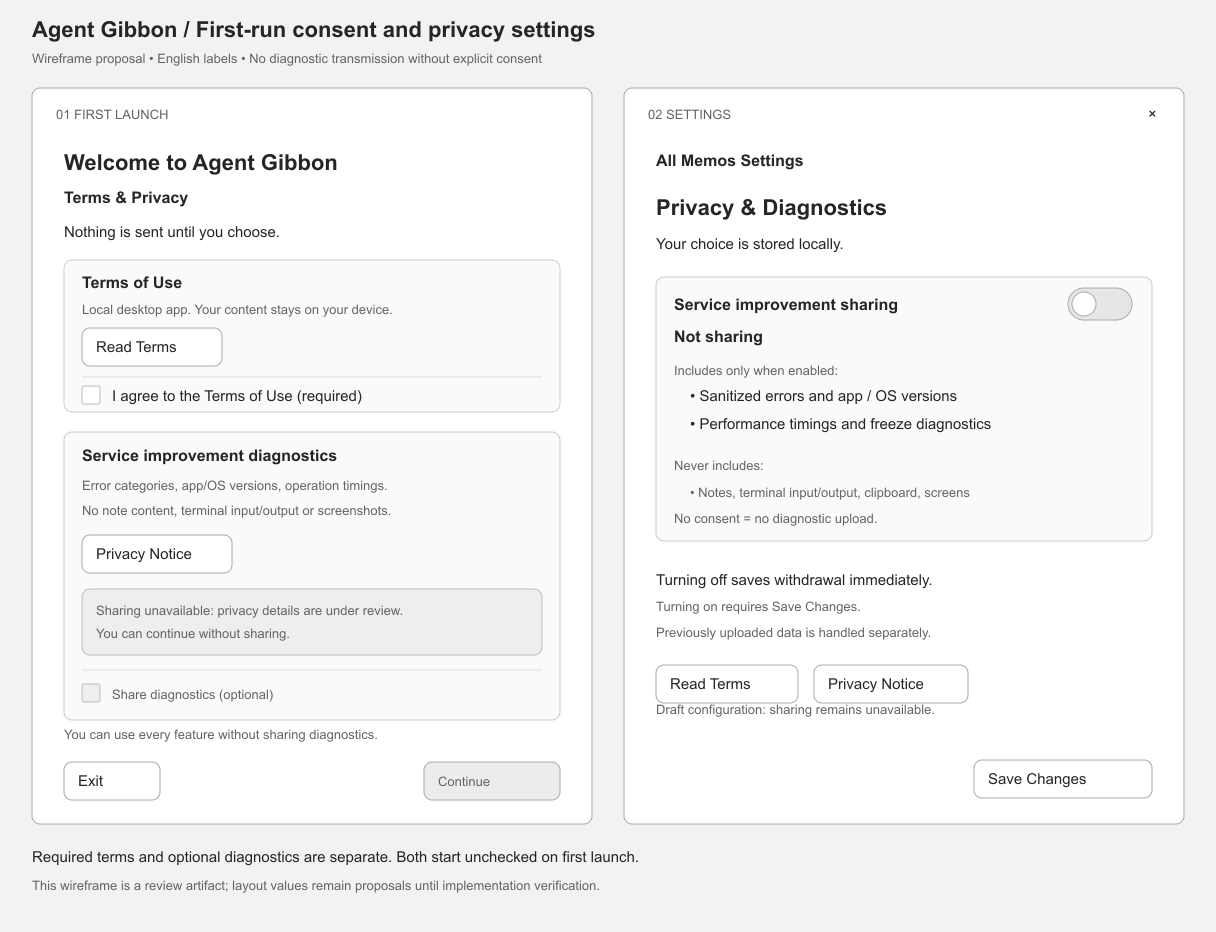
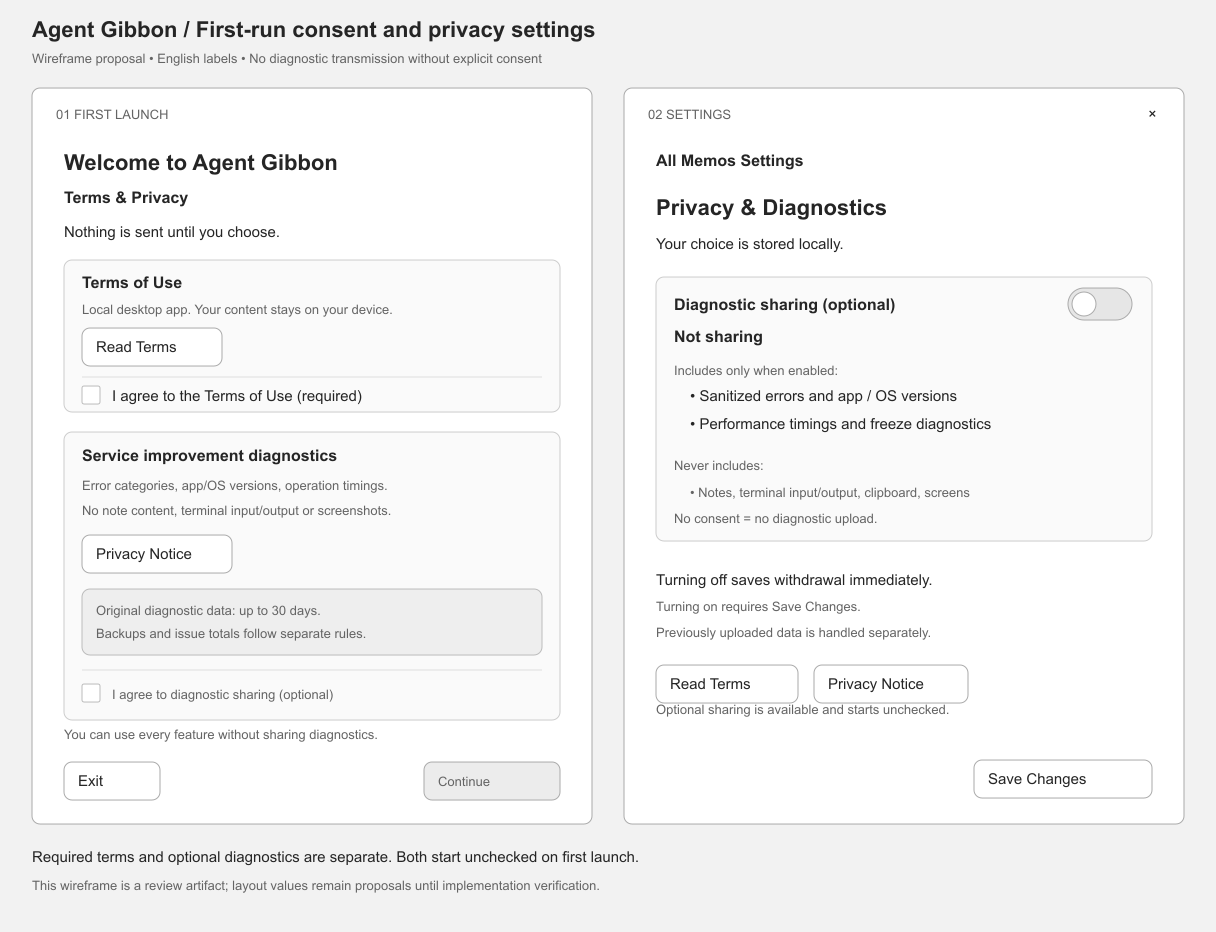
선택적 진단 동의를 활성화하고 세션 수집을 차단
원본 30일·백업·누적 통계 보유와 국외 이전 안내를 반영해 첫 실행 및 설정에서 동의를 선택하도록 한다. Release Health는 보유기간 확인 전 SDK와 envelope 경계에서 차단한다. Rust 123개·UI 81개·Rustfmt·Clippy 검사를 통과했고 실제 동의 저장·철회·재실행 검증 기록을 연결했다. 별도 설정 시안·헤더 정렬과 기존 변경은 포함하지 않는다.

diff --git a/ui/manager.html b/ui/manager.html
@@ -4,7 +4,7 @@
 <div id="error" role="alert" hidden>메모를 읽지 못했습니다. <button id="retry">다시 시도</button></div>
 <main id="notes-page" hidden><aside aria-label="메모 목록"><div class="list-heading"><h2>모든 메모</h2><button id="refresh" aria-label="메모 목록 새로고침">새로고침</button></div><div id="list"></div></aside><section id="detail" aria-label="메모 상세" tabindex="0"><p>메모를 선택하세요.</p></section></main>
 <section id="settings-page" hidden><h1>Settings</h1><div class="privacy-card privacy-settings"><h2>Privacy &amp; Diagnostics</h2><p>Your choice is stored locally.</p>
-<div class="privacy-box"><label class="privacy-choice"><input id="privacy-setting-share" type="checkbox" disabled> Service improvement sharing</label><p id="privacy-sharing-status" role="status">Not sharing</p><p>Sanitized errors, app/OS versions, operation timings and freeze diagnostics.</p><p>No notes, terminal input/output, clipboard or screenshots.</p></div>
+<div class="privacy-box"><label class="privacy-choice"><input id="privacy-setting-share" type="checkbox" disabled> I agree to diagnostic sharing (optional)</label><p id="privacy-sharing-status" role="status">Not sharing</p><p>Sanitized errors, app/OS versions, operation timings and freeze diagnostics.</p><p>No notes, terminal input/output, clipboard or screenshots.</p><p>Sent to Sentry in Iowa, United States. Originals: up to 30 days. Read the notice for backup and aggregate retention and overseas transfer details.</p></div>
 <p>Turning this off saves withdrawal immediately. Turning it on requires Save Changes. A request already started before withdrawal may finish. Previously uploaded information is handled separately.</p>
 <p id="privacy-settings-draft" class="privacy-notice">Sharing is unavailable until all privacy details are published. Read the Privacy Notice for the current operator, storage region and retention information.</p>
 <div class="privacy-links"><button id="privacy-settings-terms" type="button">Read Terms</button><button id="privacy-settings-notice" type="button">Privacy Notice</button></div>
@@ -22,9 +22,10 @@
       <h3 id="privacy-diagnostics-title">Service improvement diagnostics</h3>
       <p>Includes sanitized errors, app/OS versions, operation timings and freeze diagnostics.</p>
       <p>Excludes notes, terminal input/output, clipboard and screenshots.</p>
+      <p>Sent to Sentry in Iowa, United States. Originals: up to 30 days. Read the notice for backup and aggregate retention and overseas transfer details.</p>
       <button id="privacy-read-notice" type="button">Privacy Notice</button>
       <p id="privacy-draft" class="privacy-notice">Sharing is unavailable until all privacy details are published. Read the Privacy Notice for the current details. You can continue without sharing.</p>
-      <label class="privacy-choice privacy-agreement"><input id="privacy-share" type="checkbox" aria-describedby="privacy-draft" disabled><span class="privacy-choice-label">Share diagnostics <span>(optional)</span></span></label>
+      <label class="privacy-choice privacy-agreement"><input id="privacy-share" type="checkbox" aria-describedby="privacy-draft" disabled><span class="privacy-choice-label">I agree to diagnostic sharing <span>(optional)</span></span></label>
     </div>
     <p>You can use every feature without sharing diagnostics.</p>
     <div class="privacy-actions"><button id="privacy-exit" type="button">Exit</button><button id="privacy-continue" type="button" disabled>Continue</button></div>

diff --git a/src-tauri/src/telemetry.rs b/src-tauri/src/telemetry.rs
@@ -1,4 +1,4 @@
-//! One allowlisted egress for errors, traces, logs and release health. Never accept content.
+//! One allowlisted egress for errors, traces and logs. Sessions stay disabled.
 mod journal;
 mod privacy;
 mod transport;
@@ -185,7 +185,8 @@ fn options(dsn: sentry::types::Dsn, detailed: bool) -> sentry::ClientOptions {
         attach_stacktrace: true,
         in_app_include: vec!["agent_gibbon"],
         enable_logs: detailed,
-        auto_session_tracking: detailed,
+        // Release Health stays off until its aggregate retention is confirmed.
+        auto_session_tracking: false,
         max_breadcrumbs: 40,
         traces_sampler: Some(Arc::new(move |ctx| {
             if !detailed {
@@ -420,7 +421,7 @@ pub fn telemetry_status() -> Value {
     status()
 }
 pub fn status() -> Value {
-    json!({"enabled":enabled(),"detailed":detailed(),"environment":if cfg!(debug_assertions){"development"}else{"production"},"traces_sample_rate":if detailed(){sample_rate()}else{0.0},"logs":detailed(),"release_health":detailed(),"revision":env!("AGENT_GIBBON_BUILD_REVISION"),"operations":OPERATIONS.load(Ordering::Relaxed),"heartbeats":HEARTBEATS.load(Ordering::Relaxed),"frontend_errors":ERRORS.load(Ordering::Relaxed),"diagnostic_limit":MAX_DIAGNOSTICS,"watchdog":watchdog::status(),"journal":journal::status()})
+    json!({"enabled":enabled(),"detailed":detailed(),"environment":if cfg!(debug_assertions){"development"}else{"production"},"traces_sample_rate":if detailed(){sample_rate()}else{0.0},"logs":detailed(),"release_health":false,"revision":env!("AGENT_GIBBON_BUILD_REVISION"),"operations":OPERATIONS.load(Ordering::Relaxed),"heartbeats":HEARTBEATS.load(Ordering::Relaxed),"frontend_errors":ERRORS.load(Ordering::Relaxed),"diagnostic_limit":MAX_DIAGNOSTICS,"watchdog":watchdog::status(),"journal":journal::status()})
 }
 #[tauri::command]
 pub fn telemetry_heartbeat(

diff --git a/src-tauri/src/telemetry/tests.rs b/src-tauri/src/telemetry/tests.rs
@@ -39,7 +39,7 @@ fn rejects_unknown_and_nonfinite_frontend_measurements() {
     .is_err());
 }
 #[test]
-fn whole_envelope_scrubs_error_trace_log_session_and_denies_attachments() {
+fn whole_envelope_scrubs_error_trace_log_and_denies_sessions_and_attachments() {
     let secret = "PRIVATE_NOTE_COMMAND_PATH_TOKEN";
     let mut e:p::Event=serde_json::from_value(json!({
         "message":secret,"user":{"username":secret},"request":{"url":"https://example.invalid/PRIVATE_NOTE_COMMAND_PATH_TOKEN"},
@@ -103,7 +103,8 @@ fn whole_envelope_scrubs_error_trace_log_session_and_denies_attachments() {
     assert!(payload.contains("storage.save"));
     assert!(payload.contains("application_function"));
     assert!(payload.contains("duration_ms"));
-    assert_eq!(out.items().count(), 4);
+    assert_eq!(out.items().count(), 3);
+    assert!(!payload.contains("00112233-4455-6677-8899-aabbccddeeff"));
 }
 #[test]
 fn foreign_breadcrumbs_and_logs_are_not_allowed() {
@@ -137,7 +138,8 @@ fn basic_release_and_opted_in_diagnostics_have_separate_features() {
         0.0
     );
     let detailed = options("https://public@example.invalid/42".parse().unwrap(), true);
-    assert!(detailed.enable_logs && detailed.auto_session_tracking);
+    assert!(detailed.enable_logs);
+    assert!(!detailed.auto_session_tracking);
     let sampler = detailed.traces_sampler.unwrap();
     assert_eq!(
         sampler(&sentry::TransactionContext::new(

diff --git a/src-tauri/src/telemetry/privacy.rs b/src-tauri/src/telemetry/privacy.rs
@@ -188,20 +188,13 @@ pub fn envelope(input: Envelope) -> Envelope {
                     out.add_item(t);
                 }
             }
-            p::EnvelopeItem::SessionUpdate(s) => {
-                let mut s = s.clone();
-                s.distinct_id = None;
-                s.attributes.ip_address = None;
-                s.attributes.user_agent = None;
-                out.add_item(s);
-            }
             p::EnvelopeItem::ItemContainer(p::ItemContainer::Logs(logs)) => {
                 let logs: Vec<_> = logs.iter().cloned().filter_map(log).collect();
                 if !logs.is_empty() {
                     out.add_item(logs);
                 }
             }
-            // Attachments, replay, native memory dumps and unknown future item types are denied.
+            // Sessions/aggregates, attachments, replay, dumps and unknown types are denied.
             _ => (),
         }
     }

diff --git a/src-tauri/src/privacy.rs b/src-tauri/src/privacy.rs
@@ -272,6 +272,12 @@ mod tests {
         assert_eq!(c.decided_at, 1);
     }
     #[test]
+    fn published_notice_enables_choice_without_granting_consent() {
+        assert!(notice_ready());
+        assert!(!Choice::default().current());
+        assert!(!Choice::default().sharing);
+    }
+    #[test]
     fn unfinished_notice_cannot_enable_sharing() {
         let d: Deployment = serde_json::from_str(r#"{"operator":null,"privacy_contact":null,"recipient":"Sentry","storage_region":null,"retention_days":null}"#).unwrap();
         assert!(!d.ready());

diff --git a/docs/legal/privacy.md b/docs/legal/privacy.md
@@ -1,54 +1,70 @@
-# Agent Gibbon 개인정보·서비스 개선 정보 안내 — 초안
+# Agent Gibbon 개인정보·서비스 개선 정보 안내
 
-버전: 2026-11-06.2
+버전: 2026-11-06.3
 
-## 운영 상태
+## 운영자와 문의
 
 운영자: egoing.
 개인정보 문의: egoing+support@gmail.com. 일반 프로젝트 문의는 GitHub Issues를 이용할 수 있으나 개인정보를 공개하지 마세요.
 
-이 문서는 동의 화면 구현을 위한 초안입니다. 운영자는 egoing, 개인정보 문의 창구는 egoing+support@gmail.com이며, 현재 Sentry 저장 지역은 미국 아이오와로 확인했습니다. 아래 보유기간은 2026-11-06의 실제 계정 설정과 공식 문서를 조사한 내용입니다. 최종 보유기간 고지는 원본·집계·백업을 구분해 확정할 예정이며 현재 빌드의 외부 진단 전송은 비활성화되어 있습니다. 안내 내용이 바뀌면 기존 동의를 자동 승계하지 않습니다.
+이 안내는 오류 수정·성능 개선·프리징 원인 분석을 위한 선택적 진단 전송에 적용합니다. 기본값은 전송하지 않음이며, 아래 내용을 확인하고 별도로 동의한 경우에만 전송합니다. 안내 내용이 바뀌면 기존 동의를 자동 승계하지 않습니다.
 
 ## 1. 동의하지 않을 때
 
-오류 보고·성능 trace/span·구조화 진단 로그·release health 세션·프리징 감시 정보를 외부로 전송하지 않습니다. DSN이 포함된 빌드나 개발 환경변수가 있더라도 동의를 대신할 수 없습니다. 전송에 동의하지 않아도 메모·터미널 기능을 사용할 수 있습니다.
+오류·성능 trace/span·구조화 진단 로그·프리징 감시 정보를 외부로 전송하지 않습니다. DSN이 포함된 빌드나 개발 환경변수는 사용자 동의를 대신하지 않습니다. 동의하지 않아도 메모·터미널을 포함한 모든 앱 기능을 사용할 수 있습니다.
 
 앱 기능에 필요한 메모, 캡처, 터미널 설정과 동의 선택은 로컬 기기에 저장됩니다. 사용자가 실행하는 외부 명령이나 도구의 네트워크 통신까지 이 진단 선택이 제어하지는 않습니다.
 
-## 2. 별도 선택 동의를 받을 항목과 목적
+## 2. 선택 동의의 목적과 전송 항목
 
-목적은 앱 오류 수정, 성능 개선과 멈춤 원인 분석입니다. 운영 정보를 확정한 뒤 사용자가 별도로 동의한 경우에만 다음 항목을 전송할 수 있습니다.
+목적은 앱 오류 수정, 성능 개선과 멈춤 원인 분석입니다. 별도 선택에 동의하면 다음 진단 자료를 수집·이용하고 아래 Sentry 서비스로 이전·처리위탁·보관합니다.
 
 - 앱 버전·빌드 식별값, 운영체제·CPU 아키텍처.
 - 정제된 오류 종류, 허용된 앱 함수·파일 이름과 행 정보.
-- 고정된 영어 작업명, 작업 시간·횟수·실패 횟수, 프리징·복구 유형과 시각.
-- 사용자·장치 식별자를 제외한 진단 세션 상태와 trace 식별값.
+- 고정된 작업명, 작업 시간·횟수·실패 횟수, 프리징·복구 유형과 시각, 구조화 진단 로그.
+- 요청·작업 흐름 연결용 trace 식별값. 영구 사용자·장치 식별자는 만들지 않습니다.
 
-메모 내용·제목, 터미널 입력·출력·명령, 클립보드, 화면·이미지, 사용자명·장치명·로컬 경로를 진단 자료에 포함하지 않습니다. 완전 익명이라고 보장하지 않으며, 수신 서비스는 연결 과정에서 IP 주소를 처리할 수 있습니다. IP 저장·필터 설정도 정식 전송 활성화 전에 확인합니다.
+메모 내용·제목, 터미널 입력·출력·명령, 클립보드, 화면·이미지, 사용자명·장치명·로컬 경로를 진단 자료에 포함하지 않습니다. 오류 문구·소스 문맥·절대 경로도 제거합니다. 완전 익명이라고 보장하지 않으며, 연결 과정에서 IP 주소가 수신 서비스에 노출되고 서버 설정에 따라 처리·기록될 수 있습니다. 클라이언트가 IP 필드를 제거한다는 사실이 서버에서의 IP 처리를 없애지는 않습니다.
 
-## 3. 처리업체·저장 지역·보유기간
+Release Health 세션·세션 통계는 보유기간을 확인할 때까지 수집하지 않습니다. 화면을 재생하는 Session Replay, 첨부파일·화면 녹화·메모리 덤프·함수별 CPU 프로파일도 전송하지 않습니다.
 
-예정 처리업체는 Sentry 서비스 제공자(Functional Software, Inc.)입니다. 계약상 처리 관계와 국제 이전 근거는 정식 배포 전에 확정합니다.
+## 3. 국외 이전과 처리업체
 
-저장 국가/지역: 미국 아이오와(US 리전). Sentry 조직의 실제 regionUrl과 공식 저장 지역 문서를 대조했습니다.
+- 이전받는 자: Functional Software, Inc. (Sentry).
+- 이전받는 자의 개인정보 문의: https://sentry.io/contact/gdpr/ . 앱 운영자 문의는 egoing+support@gmail.com입니다.
+- 국가·저장 지역: 미국 아이오와(US 리전).
+- 이전 시기: 선택 동의 후 앱 사용 중 진단 항목이 발생·집계될 때.
+- 이전 방법: 암호화된 HTTPS 연결.
+- 이전 항목: 제2절의 진단 자료와 연결 과정에서 처리되는 IP 주소.
+- 이용 목적: 오류·성능·프리징 진단 자료의 처리와 운영자에게 분석 기능 제공.
+- 보유·이용 기간: 제4절의 원본·백업·누적 통계별 기준.
+- 이전 거부 방법: 처음에 선택 동의를 하지 않거나 설정에서 전송을 끕니다. 거부에 따른 앱 기능 제한은 없습니다.
 
-현재 무료 Developer 요금제에서 확인한 보유기간:
+## 4. 원본·백업·통계의 보유기간
 
-- 오류 이벤트: 30일.
-- 성능 trace/span·transaction 원본: 30일.
-- 구조화 진단 로그 원본: 30일.
-- 백업: Sentry 공식 안내상 데이터 종류에 따라 백업 생성 후 30일 또는 90일에 삭제합니다. 원본의 30일 보유와 동일한 시점의 완전 삭제를 뜻하지 않습니다.
+2026-11-06에 확인한 현재 Sentry Developer 계정과 사용자 승인 정책을 기준으로 합니다.
 
-집계 지표 traceMetric의 API 반환값에는 일반 30일·다운샘플 396일이 있습니다. 해당 프로젝트의 hasTraceMetrics는 false이며, 이 기능의 실제 사용·보유 여부를 원본 데이터의 보유기간과 혼동하지 않습니다. Release Health의 세션 통계와 이슈 누적 집계는 위 원본 보유기간만으로 완전 삭제를 단정하지 않으며 최종 고지에서 구분합니다.
+| 자료 | 보유·삭제 기준 |
+| --- | --- |
+| 오류 이벤트 원본 | 수집 후 최대 30일 |
+| 성능 trace/span·transaction 원본 | 수집 후 최대 30일 |
+| 구조화 진단 로그 원본 | 수집 후 최대 30일 |
+| Sentry의 장애 복구용 백업 | 데이터 종류에 따라 백업 생성 후 30일 또는 90일에 삭제 |
+| 오류 이슈 누적 통계 | 개별 이벤트가 만료된 뒤에도 해당 이슈가 유지되는 동안 누적 발생 횟수 등이 남을 수 있음. 원본과 같은 30일 완전 삭제를 약속하지 않으며 삭제 요청은 운영자 문의처로 접수 |
+| Release Health 세션·세션 통계 | 보유기간 확인 전 수집하지 않음 |
 
-조사 근거는 저장소의 Sentry 저장 지역·보유기간 조사 기록에 남겼습니다. 현재 문서는 최종 보유기간 고지 확정 전의 초안입니다.
+백업은 Sentry로 전송된 진단 자료의 서버 복구용 사본이며 사용자 컴퓨터나 메모 전체의 백업이 아닙니다. 백업 삭제 기간은 원본의 30일 보유와 시작점이 같지 않습니다. 위 기준은 모든 관련 자료가 수집 후 30일 안에 완전히 삭제된다는 뜻이 아닙니다.
 
-최종 보유기간 고지가 확정되기 전에는 정보 전송을 활성화할 수 없습니다. 약관 동의나 이 안내 열람만으로 전송에 동의한 것으로 처리하지 않습니다.
+현재 프로젝트의 traceMetric 집계 기능은 계정 조사 당시 미사용 상태였습니다. 이 앱은 별도 metric envelope를 전송하지 않으며, 장기 집계 지표를 추가할 때는 실제 처리·보유 조건을 확인하고 안내와 동의를 갱신합니다.
 
-## 4. 선택·철회·권리 행사
+근거: [계정 조사 기록](../verification/sentry-data-retention-20261106.md), [Sentry 원본 보유기간](https://docs.sentry.io/security-legal-pii/security/data-retention-periods/), [백업 삭제 안내](https://www.sentry.help/en/articles/13965019-how-frequently-is-data-backed-up), [원본 만료 후 오류 누적 통계](https://www.sentry.help/en/articles/13964336-why-does-the-event-count-in-my-issue-not-match-up-with-the-count-in-the-all-events-tab-of-the-issue).
 
-진단 전송 선택은 기본 해제입니다. 설정에서 언제든 끌 수 있으며, 새로운 전송을 차단하고 이전 동의 세대의 대기 자료를 보내지 않습니다. 철회 이전에 이미 시작된 네트워크 요청은 완료될 수 있으며 이미 수신된 자료의 삭제와는 구분됩니다. 열람·정정·삭제 등 개인정보 관련 요청은 egoing+support@gmail.com으로 보내 주세요. 요청 확인에 필요한 범위의 정보만 제공하고, 공개 문의에 개인정보나 진단 원문을 올리지 마세요.
+## 5. 선택·철회·권리 행사
 
-동의 여부·동의 문서 버전·선택 시각은 계정/광고 식별자 없이 로컬에 기록합니다. 저장 실패나 문서 버전 불일치·파일 손상 시에는 전송을 허용하지 않습니다. 기존 로컬 자료나 이전에 서버가 받은 자료는 설정 변경만으로 자동 삭제되지 않습니다.
+진단 전송 동의는 기본 해제이며 약관 동의와 별개입니다. 선택 체크는 제2~4절에 설명한 수집·이용과 Sentry 국외 이전에 대한 동의입니다. 설정에서 언제든 철회할 수 있습니다. 켜기는 명시적인 저장이 필요하고 끄기는 즉시 저장합니다.
 
-프로젝트 문의(임시): https://github.com/egoing/agent-gibbon/issues
+철회하면 새로운 전송을 차단하고 이전 동의 세대의 대기 자료를 보내지 않습니다. 철회 이전에 이미 시작된 네트워크 요청은 완료될 수 있으며, 철회 완료 응답은 해당 요청의 종료를 기다린 뒤 반환합니다. 이미 수신된 자료의 삭제와 앞으로의 전송 중단은 별개입니다.
+
+열람·정정·삭제 등 개인정보 관련 요청은 egoing+support@gmail.com으로 보내 주세요. 사용자·장치 식별자를 저장하지 않으므로 개별 자료를 찾는 데 한계가 있을 수 있습니다. 요청 확인에 필요한 범위의 정보만 제공하고, 공개 문의에 개인정보나 진단 원문을 올리지 마세요.
+
+동의 여부·문서 버전·선택 시각은 계정/광고 식별자 없이 로컬에 기록합니다. 저장 실패·파일 손상·문서 버전 불일치 시 전송을 허용하지 않습니다. 기존 로컬 자료나 이전에 서버가 받은 자료는 설정 변경만으로 자동 삭제되지 않습니다.

diff --git a/docs/verification/privacy-choice-enabled-20261106.md b/docs/verification/privacy-choice-enabled-20261106.md
@@ -1,0 +1,42 @@
+# 진단 동의 선택 활성화 — 2026-11-06
+
+## 반영 내용
+
+사용자 승인에 따라 원본 최대 30일, 백업 생성 후 30/90일, 오류 이슈 누적 통계의 별도 보유를 개인정보 안내 2026-11-06.3에 반영했다. 세션 통계는 보유기간 확인 전 수집하지 않는다. `notice.json`의 원본 보유기간을 30일로 확정해 실제 선택을 허용했다. 선택은 기본 해제이며 기존 동의 기록은 정책 해시 변경으로 승계하지 않는다.
+
+Release Health SDK 자동 세션을 끄고 envelope 재구성에서 SessionUpdate 및 허용하지 않은 집계 항목을 차단한다. SDK·런타임 상태의 release_health는 false다. 동의가 없는 상태에서는 SDK 초기화·전송 큐 허용을 하지 않는 기존 경계를 유지한다.
+
+## 자동 검증
+
+- macOS ARM64, Node v26.0.0, Rust/Cargo 1.91.1.
+- `cargo test --manifest-path src-tauri/Cargo.toml -- --test-threads=1`: 123개 통과. 세션 envelope 차단, 미동의/철회/이전 세대 큐 차단 및 철회 전 시작된 HTTP 요청 대기 테스트 포함. HTTP 검증은 loopback 테스트이며 실제 Sentry 전송이 아니다.
+- `npm run test:ui`: 81개 통과. 선택 가능·기본 해제·켜기 저장 전 무전송 선택·체크 해제 철회 검사 포함.
+- `cargo fmt --manifest-path src-tauri/Cargo.toml -- --check`: 통과.
+- `cargo clippy --manifest-path src-tauri/Cargo.toml --all-targets -- -D warnings`: 통과.
+- `npm run diagnostics:build -- --official`: 현재 워크트리의 macOS ARM64 개발 빌드 성공. 실행기가 DSN을 빌드 프로세스 메모리로 전달하며 관리 토큰은 자식 환경에서 제거한다. 사용자 동의를 저장하지 않는다.
+- Playwright Chromium에서 실제 manager HTML/CSS/privacy.js/manager.js와 모의 Tauri 경계로 첫 실행 기본 해제, 고지 열람, 약관만 수락, Settings 켜기 후 명시 저장, 끄기 즉시 철회, 600px/944px 가로 넘침 없음을 확인했다. 외부 요청 0개·페이지 오류 0개. 이 조작은 모의 브라우저 상태이며 실제 사용자의 동의를 대신 저장하지 않았다.
+- 실제 HTML/CSS 브라우저 캡처: `/tmp/gibbon-consent-enabled-first-run.png`, `/tmp/gibbon-consent-enabled-settings.png`. `docs/design/privacy-onboarding.svg`를 PNG로 렌더해 시각 확인했다.
+
+## 실제 개발 앱 실행·출처
+
+- 작업 루트: `/Users/egoinglee/dev/project/agent-gibbon`.
+- `node scripts/dev.mjs info`의 root는 위 루트, instance는 `dev-a5210ae16e79437d38490c8f`.
+- 실행 파일: `/Users/egoinglee/dev/project/agent-gibbon/src-tauri/target/debug/agent-gibbon`.
+- 실행 명령: `npm run diagnostics:open`. 초기 open 응답은 현재 정책 약관을 아직 수락하지 않았으므로 `onboarding_required:true`, 예상 instance를 반환했다. 앱 시작 실패로 해석하지 않는다.
+- 새 서버 PID 59219, 인자 `--serve`. 실행 전 같은 절대 경로의 프로세스는 없었으며 다른 앱/워크트리를 종료하지 않았다.
+- 개발 CLI `node scripts/diagnostics.mjs status`: `ok:true`, 위 instance 일치, `privacy.notice_ready:true`, `terms_accepted:false`, `sharing_allowed:false`, SDK `enabled:false`, `detailed:false`, `release_health:false`, journal 비활성, frontend_errors 0 확인.
+- 빌드 revision 표식은 `02cefc78e203`이다. 이번 미커밋 변경은 표식에 포함되지 않으므로 표식만을 소스 일치 근거로 삼지 않는다. 이번 빌드 성공 로그와 새 프로세스·새 고지 버전·notice_ready 실제 동작을 함께 확인했다.
+- Orca 네이티브 창 목록: PID 59219의 window ID 38569, `Agent Gibbon [DEV main · a5210ae1] — 메모 관리`, 944×480.
+- `computer-use`의 window-id 기반 화면 캡처는 `window_not_found`로 실패했으므로 성공으로 기록하지 않는다. 같은 PID/window-index 0의 읽기 전용 AX 조회는 위 제목과 native window ID를 반환했다. 실제 고지 2026-11-06.3, 30일 안내, 선택 동의 체크박스(값 0, 비활성 표시 없음)를 확인했다. 사용자가 고지를 열람 중인 상태를 유지했다.
+
+## 한계
+
+- 실제 네이티브 동의 체크·저장·철회는 사용자를 대신 실행하지 않았다. 실제 Sentry 이벤트 신규 수신이나 패킷 캡처 검증도 수행하지 않았다. 대신 수집 경계의 loopback 테스트와 현재 실행 앱의 미동의/SDK 비활성 상태를 확인했다.
+- 최초 검증 시점에는 이 변경을 커밋·푸시하거나 iMac/Windows에 배포하지 않았다. Windows 행 원인의 해결을 의미하지 않는다.
+- 기존 package-lock 및 다른 작업의 디자인 문서·시안 변경을 보존했다.
+
+확신도: 선택 UI/수집 경계 Conf 4(브라우저 및 loopback 자동 검증), 실제 앱의 선택 가능·미동의 상태 조회는 Conf 5. 위험도 Medium(개인정보 동의 및 외부 전송 제어).
+
+## 후속 실제 저장 검증과 커밋
+
+현재 사용자 요청으로 동의 활성화·세션 차단과 관련 고지/시안을 커밋 대상으로 정리했다. [실제 native 저장·재실행 검증](privacy-persistence-20261106.md)에서 동일한 주요 동의/전송 소스의 스냅샷으로 최초 수락·거부, 설정 켜기 명시 저장·끄기 즉시 저장, 재실행 및 손상 파일 차단을 확인했다. 테스트 약관·운영 정보·loopback DSN과 재실행 관찰용 Manager 창 설정을 사용했으며 실제 사용자의 동의나 공식 Sentry 수신 검증으로 해석하지 않는다.

diff --git a/docs/legal/README.md b/docs/legal/README.md
@@ -1,8 +1,9 @@
-# 약관·개인정보 안내 초안의 운영 조건
+# 약관·개인정보 안내의 운영 조건
 
-- [최소 이용약관](terms.md)과 [개인정보·선택적 진단 안내](privacy.md)는 운영자와 문의처가 반영된 검토용 초안이다. 정식 법률 검토나 전 세계 배포 요건 충족을 의미하지 않는다.
-- 현재 `src-tauri/src/privacy/notice.json`에는 운영자 egoing, 문의처 egoing+support@gmail.com, 저장 지역 미국 아이오와를 반영했다. 최종 보유기간 필드만 null이며 원본·집계·백업별 고지는 [실제 계정 조사](../verification/sentry-data-retention-20261106.md)를 근거로 확정한다. 명시적 동의가 있어도 readiness 검사를 통과하지 못하므로 전송하지 않는다. 문서를 고쳐 확정할 때도 실제 Sentry 설정과 맞춰야 하며 API 키·DSN은 이 파일에 넣지 않는다.
-- SDK 송신 정보·IP 처리와 저장·국외 이전 관계를 확인하고 초안에 미정으로 표시한 부분을 함께 갱신한다. 자동으로 국가나 보유기간을 추측하지 않는다. 자료가 사용자 기기를 떠나기 전에 동의를 받고 철회 경로도 제공한다.
+- [이용약관](terms.md)과 [개인정보·선택적 진단 안내](privacy.md)는 앱에 포함해 로컬에서 읽는다. 2026-11-06 사용자 승인으로 진단 원본 최대 30일, 백업 생성 후 30/90일, 오류 누적 통계 별도 고지, Release Health 수집 보류를 반영했다.
+- `src-tauri/src/privacy/notice.json`에 운영자·문의처·저장 지역과 원본 보유기간 30일을 확정해 선택 동의를 활성화한다. 원본 보유기간 한 숫자가 백업·누적 통계까지 같은 날 완전히 삭제된다는 의미는 아니다. 실제 계정 조사와 고지를 일치시키며 API 키·DSN은 이 파일에 넣지 않는다.
+- SDK 자동 세션을 끄고 envelope 경계에서도 세션·세션 집계 항목을 차단한다. 향후 도입 시 실제 보유기간을 확인하고 문서·동의를 갱신한다.
+- 사용자 동의를 대신 저장하지 않는다. 동의 전 외부 전송 차단·동의 저장·철회와 저장 실패 처리를 검증한다. 이 문서 변경은 정식 법률 검토나 전 세계 배포 요건 충족을 뜻하지 않는다.
 - 정책 식별값은 약관·개인정보 안내·운영 정보의 SHA-256이다. 내용이 달라지면 기존 동의를 자동 승계하지 않는다. MIT License의 기존 권리는 유지한다.
 - [디자인 기준](../design-system.md), [와이어프레임](../design/privacy-onboarding.png), [진단 구현](../diagnostics.md)을 함께 관리한다.
 

diff --git a/docs/design-system.md b/docs/design-system.md
@@ -17,6 +17,12 @@
 - 화면 구성은 [와이어프레임 SVG](design/privacy-onboarding.svg)와 [PNG](design/privacy-onboarding.png)에 제시한다. 프레임 크기는 제안값이며 실제 앱은 기존 관리 창 크기에서 스크롤한다. 기존 메모의 외형·위치·숨김 기준은 바꾸지 않는다.
 - 필수 약관을 체크하기 전 Continue는 비활성화한다. 전송 선택과 묶어 체크하거나 전체 동의를 기본값으로 제공하지 않는다. 저장 실패는 성공으로 표시하지 않는다. 동의·철회·재시작·손상 파일 검증 결과는 [검증 기록](verification/privacy-consent-20261106.md)에 구분해 남긴다. macOS/Windows 개발 빌드와 자동 검사는 통과했으며 실제 네이티브 동의 조작·Windows 프리징 재현은 미검증이다.
 
+### 선택적 진단 동의 활성화 (2026-11-06)
+
+- 사용자 승인으로 진단 원본 최대 30일, 백업 생성 후 30/90일, 오류 누적 통계의 별도 보유를 고지하고 첫 실행과 Settings의 진단 동의 체크박스를 선택 가능하게 한다. 최초에는 해제이며 약관 동의가 선택 동의를 대신하지 않는다. 미완성 운영 정보에서 비활성화하는 방어 조건은 유지한다.
+- 진단 카드에서 전송 대상 Sentry·미국 아이오와·원본 30일과 상세 Privacy Notice를 표시한다. 켜기는 명시적으로 저장하고 끄기는 즉시 철회한다. 문서 해시 변경으로 과거 동의는 자동 승계하지 않는다. Release Health 세션 수집은 SDK와 전송 필터에서 차단한다.
+- [동의 시안 SVG](design/privacy-onboarding.svg)·[PNG](design/privacy-onboarding.png)를 선택 가능·미체크 상태로 갱신한다. 정책과 검증 결과는 [활성화 기록](verification/privacy-choice-enabled-20261106.md)에 구분한다.
+
 - 동의 기록과 설정 반영은 [실제 저장·재실행 검증](verification/privacy-persistence-20261106.md)에서 macOS 테스트 인스턴스의 native UI·파일·앱 상태를 대조했다. 테스트 약관·로컬 수신기를 사용했으며 실제 사용자 동의·공식 Sentry 수신·Windows 검증과 구분한다.
 
 ### Windows 영역 선택 완료 전환 보정 (2026-11-06)

diff --git a/README.md b/README.md
@@ -293,7 +293,7 @@ npm run build:release
 
 **사용자의 별도 동의가 없으면 오류·성능·세션·로그 등 어떠한 진단 정보도 외부로 전송하지 않습니다.** 처음에는 약관과 선택적 서비스 개선 전송이 모두 체크 해제됩니다. 약관만 동의하고 전송을 거부해도 모든 앱 기능을 사용할 수 있습니다.
 
-운영자는 egoing, 개인정보 문의는 egoing+support@gmail.com이며 Sentry 저장 지역은 미국 아이오와입니다. 원본·집계·백업별 최종 보유기간 고지가 확정되기 전이므로 현재 약관·개인정보 안내는 초안이고, **현재 빌드에서는 전송 동의를 활성화할 수 없습니다.** [약관 초안](docs/legal/terms.md), [개인정보 안내](docs/legal/privacy.md), [와이어프레임](docs/design/privacy-onboarding.png)을 확인하세요. 운영 정보와 문서가 확정되어 정책 버전이 바뀌면 다시 선택을 받습니다.
+운영자는 egoing, 개인정보 문의는 egoing+support@gmail.com이며 Sentry 저장 지역은 미국 아이오와입니다. **첫 실행과 설정에서 선택적으로 동의하거나 철회할 수 있습니다.** 진단 원본은 최대 30일이며 백업과 오류 누적 통계는 별도 기준을 적용합니다. Release Health 세션 수집은 보유기간 확인 전 비활성화합니다. [약관](docs/legal/terms.md), [개인정보·국외 이전 안내](docs/legal/privacy.md), [와이어프레임](docs/design/privacy-onboarding.png)을 확인하세요. 문서 버전이 바뀌면 과거 동의를 자동 승계하지 않습니다.
 
 DSN이나 `AGENT_GIBBON_DIAGNOSTICS=1`은 동의를 대신하지 않습니다. 개발 빌드는 자신의 DSN과 진단 실행 조건에 더해 같은 명시적 동의가 필요합니다. `AGENT_GIBBON_TELEMETRY=off`는 항상 전송을 차단합니다. 설정에서 철회하면 새 전송을 막고 과거 동의 세대의 대기 자료는 재전송하지 않습니다. 이미 시작한 요청과 이미 수신된 자료의 삭제는 별도로 구분합니다. [진단 안내](docs/diagnostics.md)를 참고하세요.
 
